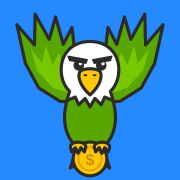
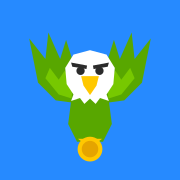
Águia no estilo simples: ícone, tela de entrada e capa de compartilhamento
Claude-Session: https://claude.ai/code/session_01RvDeJd22qpbR6Wj3dHhRyo

Changed region(s): [[0.0833, 0.0556, 0.9167, 1.0]]

diff --git a/js/app.js b/js/app.js
@@ -1,10 +1,10 @@
 // Flui — telas e interação
-import * as C from './calc.js?v=75';
-import { ICS, ICONE_POR_NOME, svgIcone } from './icones.js?v=75';
-import { VAPID_KEY } from './config.js?v=75';
-import { lerOFX, lerCSV, entender, chaveRegra } from './importar.js?v=75';
-import { Store, uid, FORMAS, validarBackup, BANCOS_CATALOGO } from './store.js?v=75';
-import { brl, brl0, pct, esc, parseValor, valorInput, ICON, MASCOTE, rosca, barras, toast } from './ui.js?v=75';
+import * as C from './calc.js?v=76';
+import { ICS, ICONE_POR_NOME, svgIcone } from './icones.js?v=76';
+import { VAPID_KEY } from './config.js?v=76';
+import { lerOFX, lerCSV, entender, chaveRegra } from './importar.js?v=76';
+import { Store, uid, FORMAS, validarBackup, BANCOS_CATALOGO } from './store.js?v=76';
+import { brl, brl0, pct, esc, parseValor, valorInput, ICON, MASCOTE, rosca, barras, toast } from './ui.js?v=76';
 
 const store = new Store();
 const $ = (s, el = document) => el.querySelector(s);
@@ -36,9 +36,9 @@ const NAV_MOVEL = [['inicio', 'Início', ICON.inicio], ['lancamentos', 'Lançar'
 
 function render() {
   const root = $('#app');
-  if (ui.carregando) { root.innerHTML = `<div class="entrada"><div class="entrada-box">${marca()}<p class="slogan">Carregando...</p></div></div>`; return; }
+  if (ui.carregando) { root.innerHTML = `<div class="entrada"><div class="entrada-box"><img class="entrada-mascote" src="icons/mascote.svg?v=76" alt="">${marca()}<p class="slogan">Carregando...</p></div></div>`; return; }
   if (!store.user) { root.innerHTML = telaEntrada(); return; }
-  if (!st()) { root.innerHTML = `<div class="entrada"><div class="entrada-box">${marca()}<p class="slogan">Buscando seus dados...</p></div></div>`; return; }
+  if (!st()) { root.innerHTML = `<div class="entrada"><div class="entrada-box"><img class="entrada-mascote" src="icons/mascote.svg?v=76" alt="">${marca()}<p class="slogan">Buscando seus dados...</p></div></div>`; return; }
   const rota = NAV.some((n) => n[0] === ui.rota) || ui.rota === 'mais' ? ui.rota : 'inicio';
   const tela = { inicio: telaInicio, lancamentos: telaLancamentos, cartoes: telaCartoes, plano: telaPlano, relatorios: telaRelatorios, metas: telaMetas, categorias: telaCategorias, config: telaConfig, mais: telaMais }[rota];
   root.innerHTML = `<div class="app">
@@ -57,7 +57,7 @@ function modalNotificacoes() {
   const av = avisos();
   abrirModal(`${topoModal('Notificações')}${av.length ? av.map((a) => `<div class="aviso ${a.cor}"><span class="ic">${a.ic}</span><span>${a.txt}</span><button class="fechar" data-a="aviso-ok" data-k="${esc(a.k)}" aria-label="Dispensar">×</button></div>`).join('') + '<p class="mini">Toque no × para dispensar um aviso.</p>' : `<div class="flui-fala"><div class="mascote">${MASCOTE}</div><div class="balao">Tudo tranquilo por aqui! Quando algo precisar da sua atenção, eu aviso.</div></div>`}`);
 }
-const marca = (peq) => `<div class="marca"${peq ? ' style="padding:0"' : ''}><div class="marca-icone"${peq ? ' style="width:34px;height:34px;font-size:19px;border-radius:10px"' : ''}><img src="icons/icon.svg?v=75" alt=""></div><div class="marca-nome"${peq ? ' style="font-size:24px"' : ''}>Flu<span class="i-verde">ı</span></div></div>`;
+const marca = (peq) => `<div class="marca"${peq ? ' style="padding:0"' : ''}><div class="marca-icone"${peq ? ' style="width:34px;height:34px;font-size:19px;border-radius:10px"' : ''}><img src="icons/icon.svg?v=76" alt=""></div><div class="marca-nome"${peq ? ' style="font-size:24px"' : ''}>Flu<span class="i-verde">ı</span></div></div>`;
 function seqHtml() { const n = C.sequenciaRegistro(st()); return n > 1 ? `🔥 ${n} dias` : ''; }
 
 // ---------------- entrada / login ----------------
@@ -66,7 +66,7 @@ const gravarLocal = (k, v) => { try { if (v === null) localStorage.removeItem(k)
 function telaEntrada() {
   const criar = ui.authModo === 'criar';
   return `<div class="entrada"><form class="entrada-box" data-form="auth">
-    ${marca()}<p class="slogan">Seu dinheiro, no seu ritmo.</p>
+    <img class="entrada-mascote" src="icons/mascote.svg?v=76" alt="">${marca()}<p class="slogan">Seu dinheiro, no seu ritmo.</p>
     ${store.modo === 'local' ? '<div class="selo">MODO DE TESTE · dados só neste navegador</div>' : ''}
     <div class="campo"><label>E-mail</label><input class="inp" name="email" id="login-email" type="email" autocomplete="username email" value="${esc(lerLocal('flui:email') || '')}" required></div>
     ${store.modo === 'local' ? '' : `<div class="campo"><label>Senha</label><input class="inp" name="senha" type="password" autocomplete="${criar ? 'new-password' : 'current-password'}" minlength="6" required></div>`}
@@ -1171,7 +1171,7 @@ store.on(() => { if (!ui.modal) render(); });
     });
   } catch (err) {
     console.error(err); ui.carregando = false;
-    $('#app').innerHTML = `<div class="entrada"><div class="entrada-box">${marca()}<p class="erro">Não consegui iniciar o Flui. Confira a internet e recarregue a página.</p></div></div>`;
+    $('#app').innerHTML = `<div class="entrada"><div class="entrada-box"><img class="entrada-mascote" src="icons/mascote.svg?v=76" alt="">${marca()}<p class="erro">Não consegui iniciar o Flui. Confira a internet e recarregue a página.</p></div></div>`;
   }
   if ('serviceWorker' in navigator && location.protocol === 'https:') {
     // versão nova: assim que o service worker novo assume, recarrega uma vez sozinho

diff --git a/index.html b/index.html
@@ -5,10 +5,13 @@
 <meta name="viewport" content="width=device-width, initial-scale=1, viewport-fit=cover">
 <title>Flui</title>
 <meta name="description" content="Flui — seu dinheiro, no seu ritmo.">
+<meta property="og:title" content="Flui"><meta property="og:description" content="Seu dinheiro, no seu ritmo."><meta property="og:type" content="website">
+<meta property="og:url" content="https://dudexenterteniment-wq.github.io/flui/"><meta property="og:image" content="https://dudexenterteniment-wq.github.io/flui/icons/capa.png?v=76">
+<meta property="og:image:width" content="1200"><meta property="og:image:height" content="630"><meta name="twitter:card" content="summary_large_image">
 <meta name="theme-color" content="#268AFF">
 <link rel="manifest" href="manifest.webmanifest">
-<link rel="icon" href="icons/icon.svg?v=75" type="image/svg+xml">
-<link rel="apple-touch-icon" href="icons/icon-180.png?v=75">
+<link rel="icon" href="icons/icon.svg?v=76" type="image/svg+xml">
+<link rel="apple-touch-icon" href="icons/icon-180.png?v=76">
 <meta name="apple-mobile-web-app-capable" content="yes">
 <meta name="mobile-web-app-capable" content="yes">
 <meta name="apple-mobile-web-app-title" content="Flui">
@@ -16,11 +19,11 @@
 <link rel="preconnect" href="https://fonts.googleapis.com">
 <link rel="preconnect" href="https://fonts.gstatic.com" crossorigin>
 <link href="https://fonts.googleapis.com/css2?family=Nunito:wght@600;700;800;900&display=swap" rel="stylesheet">
-<link rel="stylesheet" href="css/app.css?v=75">
+<link rel="stylesheet" href="css/app.css?v=76">
 </head>
 <body>
 <div id="app"></div>
 <noscript>O Flui precisa de JavaScript ativado.</noscript>
-<script type="module" src="js/app.js?v=75"></script>
+<script type="module" src="js/app.js?v=76"></script>
 </body>
 </html>

diff --git a/sw.js b/sw.js
@@ -1,6 +1,6 @@
 // Flui — service worker: guarda os arquivos do app para abrir rápido e funcionar sem internet
-const VERSAO = 'flui-v75';
-const ARQUIVOS = ['./', './index.html', './css/app.css?v=75', './js/app.js?v=75', './js/calc.js?v=75', './js/store.js?v=75', './js/ui.js?v=75', './js/config.js?v=75', './js/icones.js?v=75', './js/importar.js?v=75', './manifest.webmanifest', './icons/icon.svg', './icons/icon-192.png'];
+const VERSAO = 'flui-v76';
+const ARQUIVOS = ['./', './index.html', './css/app.css?v=76', './js/app.js?v=76', './js/calc.js?v=76', './js/store.js?v=76', './js/ui.js?v=76', './js/config.js?v=76', './js/icones.js?v=76', './js/importar.js?v=76', './manifest.webmanifest', './icons/icon.svg', './icons/icon-192.png'];
 self.addEventListener('install', (e) => { e.waitUntil(caches.open(VERSAO).then((c) => c.addAll(ARQUIVOS)).then(() => self.skipWaiting())); });
 self.addEventListener('activate', (e) => { e.waitUntil(caches.keys().then((ks) => Promise.all(ks.filter((k) => k !== VERSAO).map((k) => caches.delete(k)))).then(() => self.clients.claim())); });
 self.addEventListener('fetch', (e) => {

diff --git a/css/app.css b/css/app.css
@@ -446,3 +446,5 @@ label.btn { position: relative; }
 .marca-icone { background: none; overflow: hidden; } .marca-icone img { width: 100%; height: 100%; display: block; }
 .i-verde { position: relative; display: inline-block; }
 .i-verde::after { content: ''; position: absolute; left: 50%; top: 0.28em; width: 0.21em; height: 0.21em; transform: translateX(-50%); border-radius: 50%; background: var(--verde); }
+.entrada-mascote { width: 150px; height: auto; display: block; margin: 0 auto 6px; }
+.entrada-box .marca-icone { display: none; }

diff --git a/js/store.js b/js/store.js
@@ -1,5 +1,5 @@
 // Flui — dados: modelo inicial, salvar/carregar (Firebase ou local), backup
-import { FIREBASE_CONFIG, FIREBASE_SDK } from './config.js?v=75';
+import { FIREBASE_CONFIG, FIREBASE_SDK } from './config.js?v=76';
 
 export const COLECOES = ['categorias', 'lancamentos', 'cartoes', 'compras', 'recorrencias', 'metas'];
 export const uid = () => Math.random().toString(36).slice(2, 10) + Date.now().toString(36).slice(-4);

diff --git a/js/ui.js b/js/ui.js
@@ -1,5 +1,5 @@
 // Flui — utilidades de interface: formatação, ícones, gráficos em SVG (sem dependências)
-import { nomeMes } from './calc.js?v=75';
+import { nomeMes } from './calc.js?v=76';
 
 const FMT = new Intl.NumberFormat('pt-BR', { style: 'currency', currency: 'BRL' });
 export const brl = (v) => FMT.format(Number(v) || 0);
